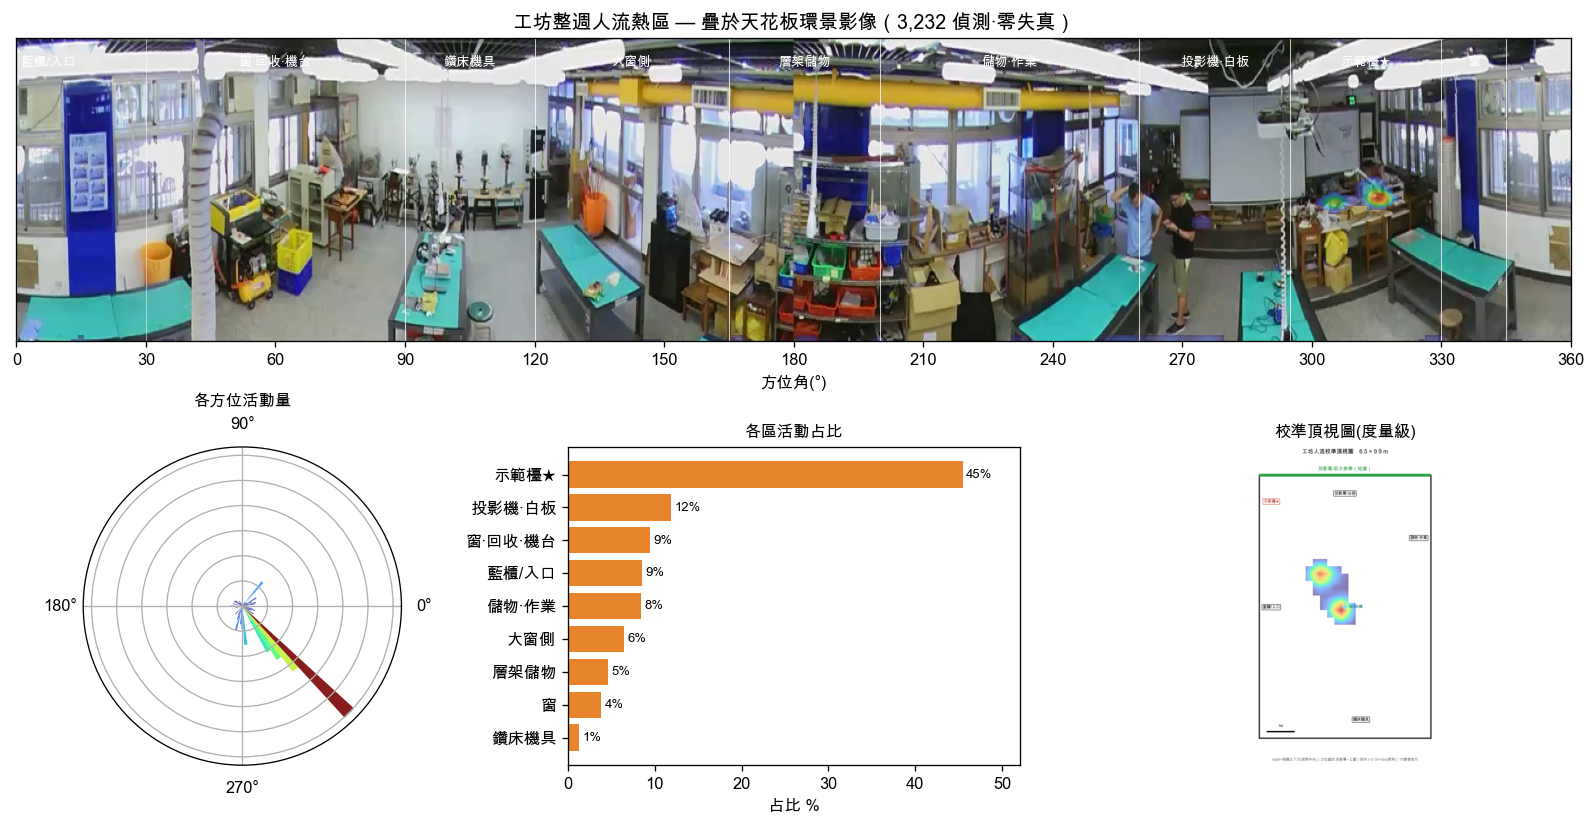
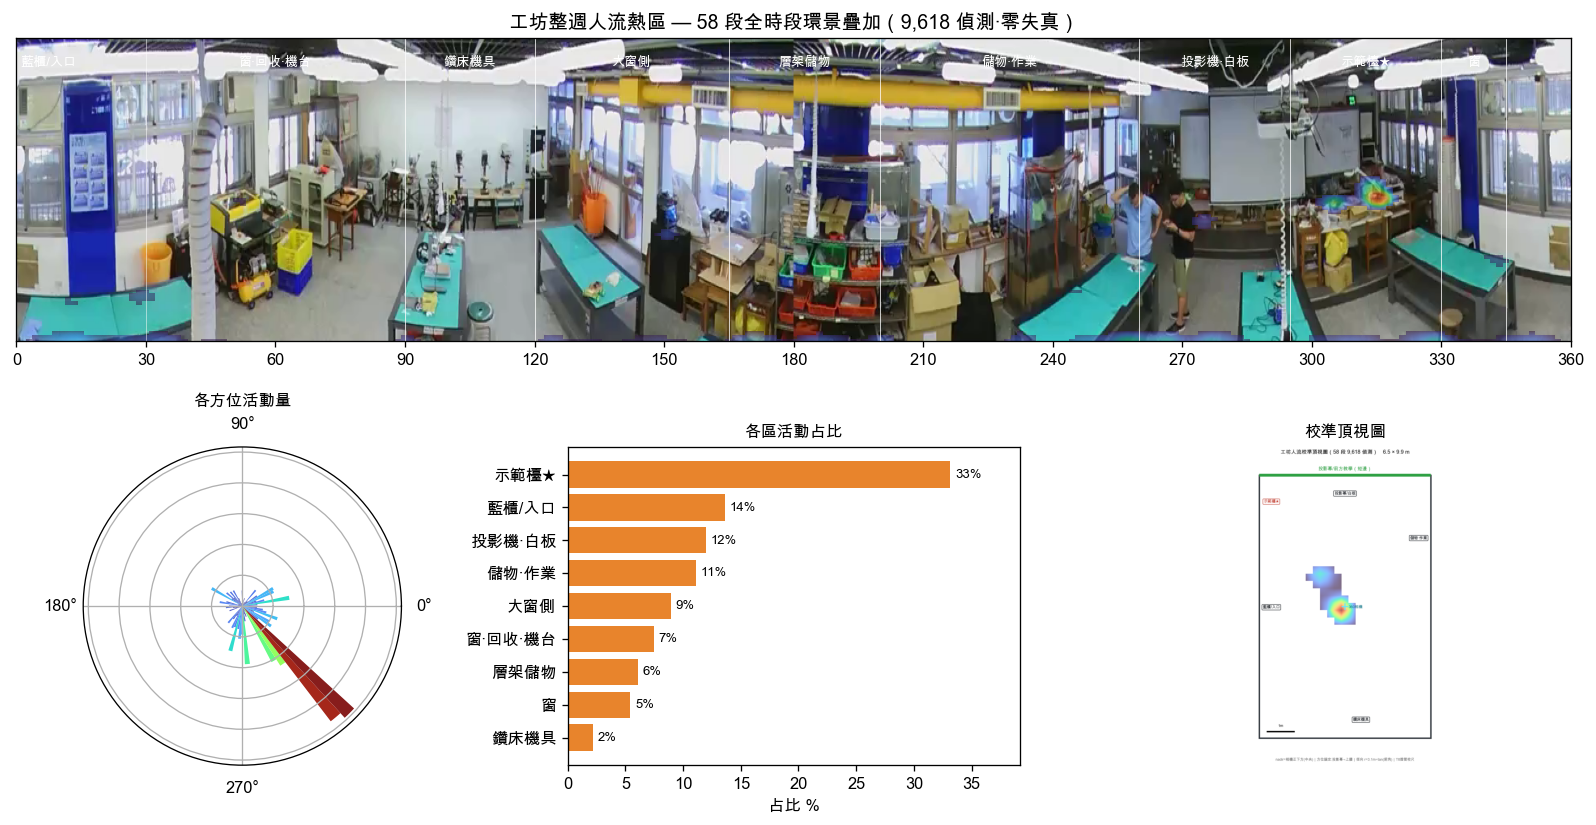
人流分析擴充至 58 段全時段多片(9,618 偵測)
使用者質疑只分析一部影片。查證:資料本來就是多片(30段偶數時段),
但先前批次有兩個 bug 限制了覆蓋:
- ssh 吃掉 while-read 的 stdin → 批次只跑1段(改 FD3 讀+ssh -n)
- 下載 150MB 影片約半數逾時失敗(奇數時段)
改用「Pi 端遠端抽幀→只傳小JPEG(12MB)→本地偵測14s/段」:
- 58/59 段成功(含奇數時段),9,618 偵測(原3,232的3倍)
- 全時段(5/20–5/25 每天08-17每小時)、每t秒80點,真多片
- front_pct 由 57%→45%(修正單一忙碌時段的過度加權)
重生全部交付物:週熱區/全景疊加/分區占比/校準頂視圖
新工具:ck2_detect_frames.py(幀目錄偵測)

diff --git a/livingtech4-tracking.html b/livingtech4-tracking.html
@@ -48,7 +48,7 @@
 <header>
   <a class="back" href="index.html">← X5 RoomTour</a>
   <h1>🔥 工坊人流分析</h1>
-  <span class="sub">生活科技教室4 · 天花板 360 環景相機 · 整週真實偵測</span>
+  <span class="sub">生活科技教室4 · 天花板 360 環景相機 · 58 段全時段多片</span>
 </header>
 <div class="wrap">
   <div class="pano" id="pano">
@@ -68,7 +68,7 @@
     <div>
       <h2>校準頂視圖（度量級）</h2>
       <p class="note">這是用你提供的安裝資訊重建的<b>度量級頂視人流圖</b>：天花板 360 相機<b>正下方 = 房間中央(nadir)</b>；方位以<b>投影幕在上牆短邊</b>錨定；徑向用物理模型 <b>r = 天花板高(3.1m) ÷ tan(俯角)</b> 還原，取代先前線性投影造成的失真。室內 <b>6.5 × 9.9 m</b>（T8 燈管校尺）。</p>
-      <p class="note">熱區集中於相機與前方教學/示範區之間，與環景判讀的「前方教學區占 57%」一致。徑向遠近仍受魚眼解析限制，僅供概略參考。</p>
+      <p class="note">熱區集中於相機與前方教學/示範區之間，與環景判讀的「前方教學區占 45%」一致（58 段全時段多片）。徑向遠近仍受魚眼解析限制，僅供概略參考。</p>
     </div>
   </div>
 
@@ -80,7 +80,7 @@
     <div class="card">
       <h2>重點</h2>
       <div class="kpi">
-        <div>整週偵測點<b id="kTotal">—</b></div>
+        <div>多片偵測點<b id="kTotal">—</b></div>
         <div>前方教學/示範區<b class="hot" id="kFront">—</b></div>
       </div>
       <p class="note" id="note"></p>

diff --git a/index.html b/index.html
@@ -149,8 +149,8 @@
       <span class="chip">去霧優化・可走動</span><span class="go">進入 →</span></a>
     <a class="card" href="livingtech4-tracking.html">
       <div class="ic">🔥</div><h3>工坊・人流熱區分析</h3>
-      <p>天花板 360 環景相機整週 <b>3,232 筆真實偵測</b>，直接疊回環景影像（零投影失真）並由影像判讀分區：<b>前方教學/示範區占 57%</b>。含方位玫瑰圖與各區占比。</p>
-      <span class="chip">真實整週·零失真</span><span class="go">開啟 →</span></a>
+      <p>天花板 360 環景相機 <b>58 段全時段（5/20–5/25）· 9,618 筆真實偵測</b>，直接疊回環景影像（零投影失真）並由影像判讀分區：<b>前方教學/示範區占 45%</b>。含方位玫瑰圖、各區占比與校準頂視圖。</p>
+      <span class="chip">58段多片·零失真</span><span class="go">開啟 →</span></a>
   </div>
 
   <h2 class="sec">空間分析</h2>
